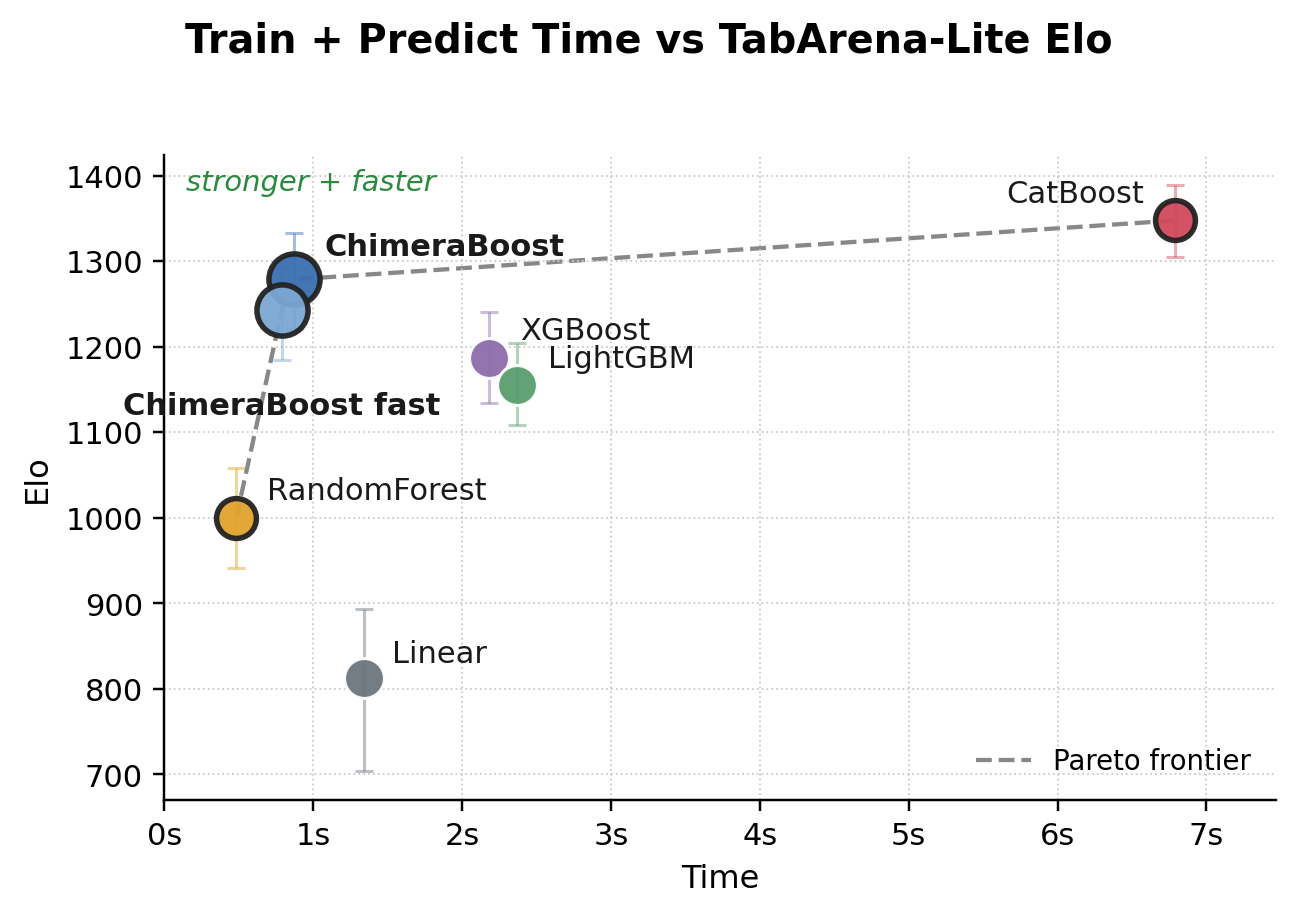
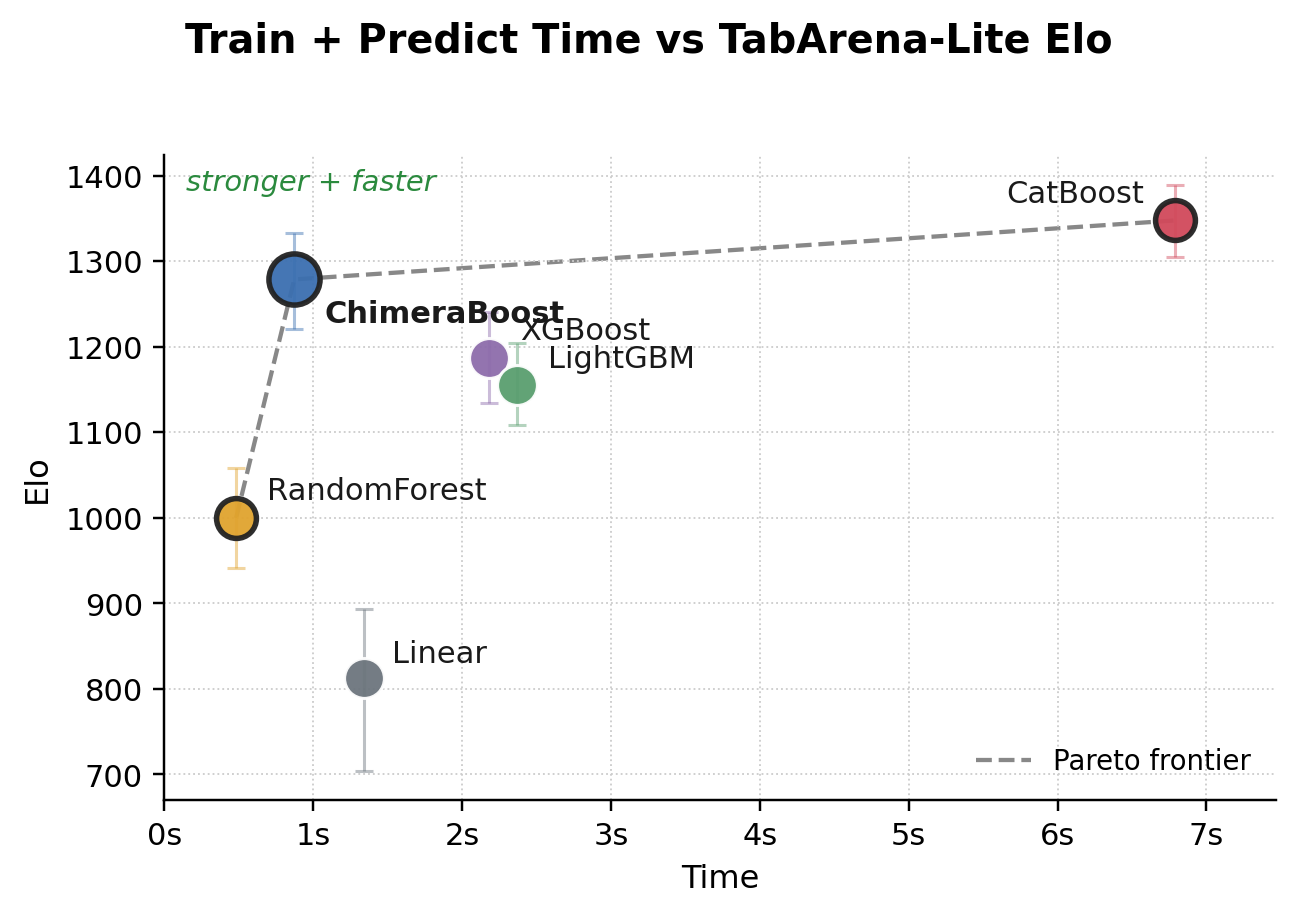
TabArena chart: back to the single default point
Nathan's call -- two ChimeraBoost points read as clutter. Chart is back to
one point per method, identical in layout to the pre-fast-rung version.

The fast rung's measurement is not thrown away: its run, leaderboard entry
and scripts stay (benchmarks/tabarena/run_chimera_fast.py, 1243 Elo, rank
36/68, 0.67 s/1K), and the DATA-block comment records the number plus how
to restore the row. Nothing needs re-running if we ever want it charted.

Claude-Session: https://claude.ai/code/session_01QL8dKTqwRwQj3j8yJSJVw3

Changed region(s): [[0.0925, 0.3057, 0.4318, 0.4585], [0.2467, 0.2445, 0.4318, 0.3057]]

diff --git a/benchmarks/make_tabarena_pareto.py b/benchmarks/make_tabarena_pareto.py
@@ -20,7 +20,6 @@ from matplotlib.ticker import FuncFormatter, MaxNLocator
 # Same palette as make_pareto.py so ChimeraBoost stays the consistent blue.
 MODEL_COLOR = {
     "ChimeraBoost": "#3b6fb0",
-    "ChimeraBoost_fast": "#7ba7d4",
     "CatBoost": "#d1495b",
     "XGBoost": "#8d6cab",
     "LightGBM": "#5a9e6f",
@@ -49,22 +48,19 @@ MODEL_COLOR = {
 #     0.125 -> 0.123. Lite's median task is small and overhead-dominated, so treat
 #     its fit-speed column as directional only.
 #
-# ChimeraBoost_fast = quality=1, the fast rung (51/51 fitted, own 51-task run):
-# 1243 Elo, rank 36/68, 0.67 s/1K train. Declining the configuration search costs
-# 36 Elo and returns ~11% of train time HERE -- a much worse trade than on the
-# development suites, where it returns 4.7x. Two reasons, both protocol: Lite's
-# median task is small and overhead-dominated, and the bagged wrapper fits 8
-# children per task, so the search is amortised over work the fast rung still has
-# to do. Rungs 2 and 3 are NOT charted separately because they are byte-identical
-# under an explicit eval_set -- the "ChimeraBoost" point is both of them.
-# CAVEAT on mixing: the two ChimeraBoost points come from separate evals, each
-# adding one method to the same baseline pool. The shared anchors moved by <=1 Elo
-# between them (CatBoost 1348/1349, LightGBM 1155/1156), so the comparison is good
-# to a point or two, not exact.
+# MEASURED BUT DELIBERATELY NOT CHARTED (one point per chart reads better):
+# the fast rung, quality=1, has its own 51-task run and leaderboard entry
+# (ChimeraBoost_fast; benchmarks/tabarena/run_chimera_fast.py) -- 1243 Elo,
+# rank 36/68, 0.67 s/1K train. Declining the configuration search costs 36 Elo
+# and returns only ~11% of train time HERE, against 4.7x on the development
+# suites: Lite's median task is small and overhead-dominated, and the bagged
+# wrapper fits 8 children per task, so the search amortises over work the fast
+# rung still performs. Re-chart it by restoring the DATA row if ever wanted.
+# Rungs 2 and 3 need no separate point either way -- under an explicit eval_set
+# they are byte-identical, so the ChimeraBoost point below is both of them.
 DATA = {
     "CatBoost":     (1348, 42, 43, 6.70, 0.088),
     "ChimeraBoost": (1279, 54, 58, 0.75, 0.123),
-    "ChimeraBoost_fast": (1243, 50, 58, 0.67, 0.120),
     "XGBoost":      (1187, 54, 53, 2.06, 0.122),
     "LightGBM":     (1155, 50, 46, 2.20, 0.171),
     "RandomForest": (1000, 58, 58, 0.43, 0.053),
@@ -114,7 +110,7 @@ def render_image(out_path):
         t = total_time(m)
         color = MODEL_COLOR.get(m, "#777777")
         on_front = m in front
-        is_us = m.startswith("ChimeraBoost")
+        is_us = m == "ChimeraBoost"
         # Faint asymmetric Elo 95% CI bar.
         ax.errorbar(t, e, yerr=[[em], [ep]], fmt="none", ecolor=color,
                     elinewidth=1.0, capsize=3, alpha=0.45, zorder=2)
@@ -124,18 +120,14 @@ def render_image(out_path):
                    zorder=4 if is_us else 3, alpha=0.95)
         # Label nudges to avoid collisions.
         _offsets = {
-            "ChimeraBoost": (10, 8, "left"),
-            # Centered below its point: the label is long and the region to
-            # its right belongs to XGBoost/LightGBM.
-            "ChimeraBoost_fast": (0, -34, "center"),
+            "ChimeraBoost": (10, -14, "left"),
             "XGBoost": (10, 6, "left"),
             "LightGBM": (10, 6, "left"),
             "CatBoost": (-10, 6, "right"),
             "RandomForest": (10, 6, "left"),
         }
         ox, oy, ha = _offsets.get(m, (9, 5, "left"))
-        ax.annotate(m.replace("_", " "), (t, e),
-                    textcoords="offset points", xytext=(ox, oy),
+        ax.annotate(m, (t, e), textcoords="offset points", xytext=(ox, oy),
                     ha=ha, fontsize=10,
                     fontweight="bold" if is_us else "normal", color="#1a1a1a")
 
@@ -177,7 +169,7 @@ def main():
     print(f"{'Model':<14}{'Elo':>6}{'Time(s/1K)':>12}{'Pareto':>8}")
     print("-" * 40)
     for m in sorted(DATA, key=lambda x: -elo(x)):
-        star = "  <-- ours" if m.startswith("ChimeraBoost") else ""
+        star = "  <-- ours" if m == "ChimeraBoost" else ""
         on = "yes" if m in front else "-"
         print(f"{m:<14}{elo(m):>6}{total_time(m):>12.2f}{on:>8}{star}")
     print(f"\nWrote tabarena_pareto.png to {out_dir}")
